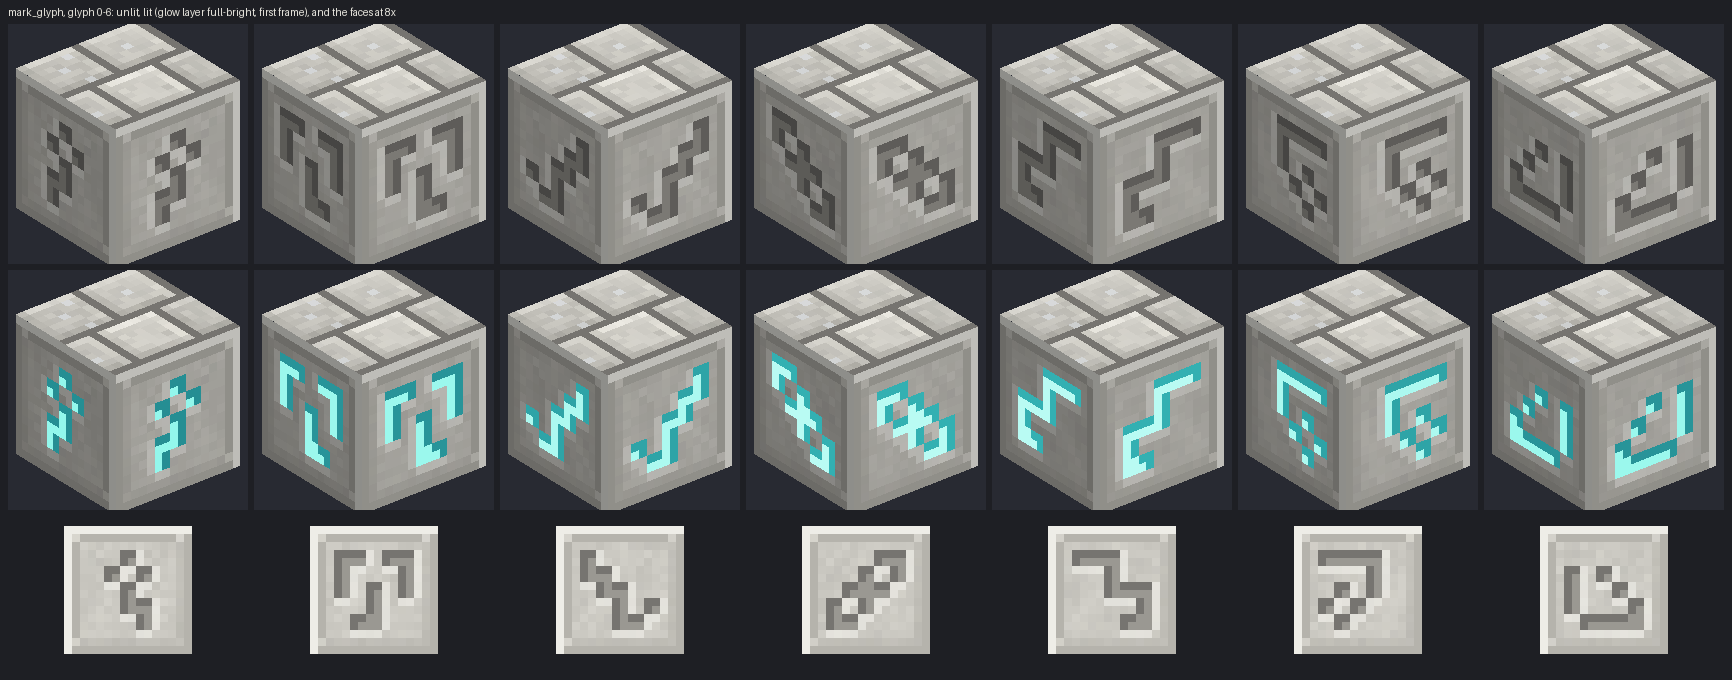
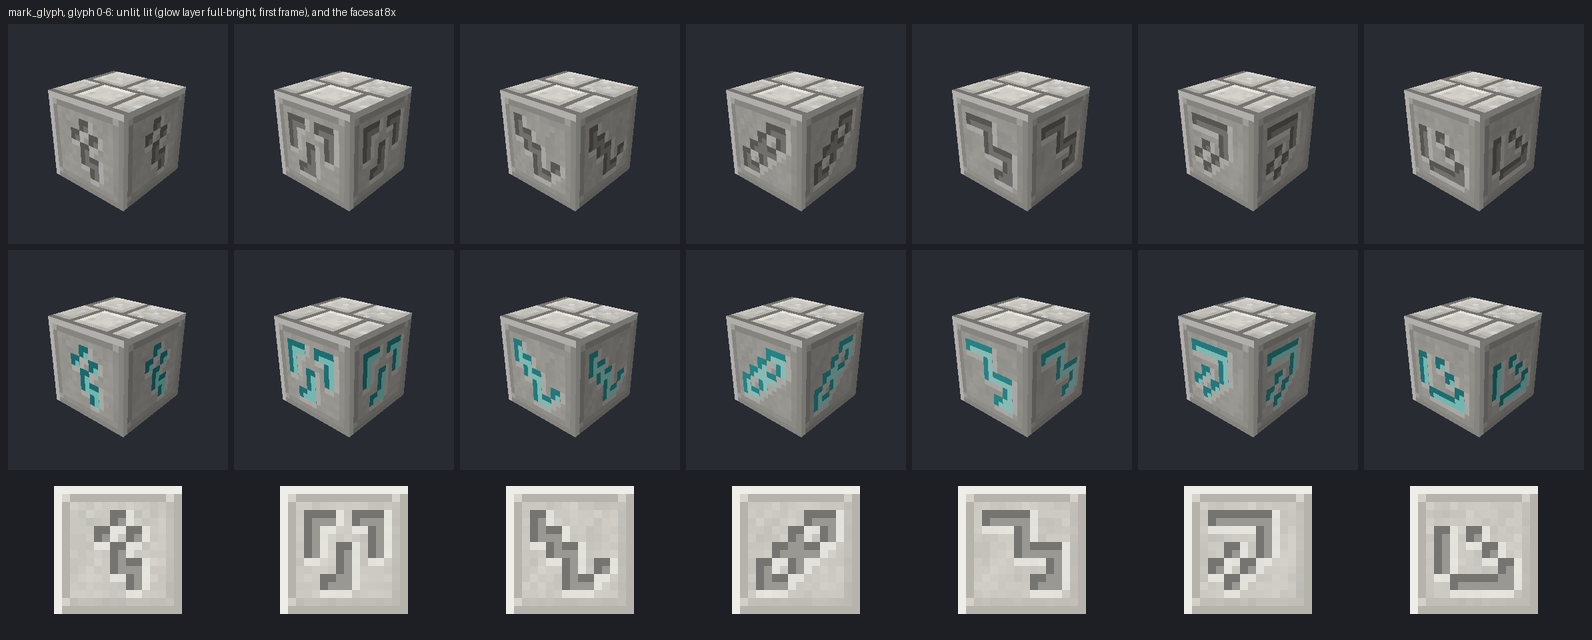
design: draw the glyph-block sheet through the verified renderer
render_block_model draws a mirror image (flagged as its own task), so the
sheet now uses the hand-camera rasteriser the pylon views already use.

diff --git a/tools/generate-lore-art.py b/tools/generate-lore-art.py
@@ -717,15 +717,21 @@ def glyph_models():
 
 
 def glyph_block_sheet(path):
-    """Every state of mark_glyph drawn from its own model (render_block_model), unlit above and lit
-    below, and the seven faces flat at 8x."""
-    rsp = _load('render_structure_preview', 'render-structure-preview.py')
+    """Every state of mark_glyph drawn from its own model through the hand-camera rasteriser (the
+    structure tool's render_block_model draws a mirror image), unlit above and lit below, and the
+    seven faces flat at 8x."""
+    import numpy as np
+    rim, rsp = _rim(), _load('render_structure_preview', 'render-structure-preview.py')
+    size = (330, 330)
+    proj = rim.perspective(40, 1.0)
+    view = rim.look_at((2.45, 1.95, 2.75), (0.5, 0.48, 0.5))
     tiles = []
-    for lit in ('', '_lit'):
+    for lit in ('false', 'true'):
         row = []
         for k in range(7):
-            im = rsp.render_block_model(f'{NS}:block/mark_glyph/glyph_{k}{lit}', scale=10)
-            row.append(im.crop((im.width // 8, im.height // 8, im.width * 7 // 8, im.height * 7 // 8)))
+            q = scene_quads(rim, rsp, {(0, 0, 0): f'{NS}:mark_glyph[glyph={k},lit={lit}]'})
+            bg = np.zeros((size[1], size[0], 3), np.float32) + np.array([0.16, 0.17, 0.2], np.float32)
+            row.append(rim.to_image(rim.rasterise(q, proj, view, size, bg)).resize((220, 220), Image.LANCZOS))
         tiles.append(row)
     w, h = tiles[0][0].size
     flat = [glyph_face(k).resize((128, 128), Image.NEAREST) for k in range(7)]
@@ -735,7 +741,7 @@ def glyph_block_sheet(path):
            fill=INK)
     for r, row in enumerate(tiles):
         for k, im in enumerate(row):
-            out.paste(im.convert('RGB'), (8 + k * (w + 6), 24 + r * (h + 6)))
+            out.paste(im, (8 + k * (w + 6), 24 + r * (h + 6)))
     for k, im in enumerate(flat):
         out.paste(im, (8 + k * (w + 6) + (w - 128) // 2, 24 + 2 * (h + 6) + 10))
     out.save(path)
